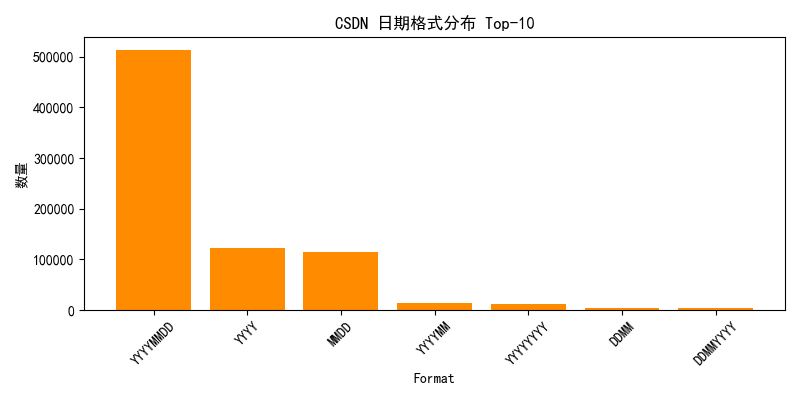
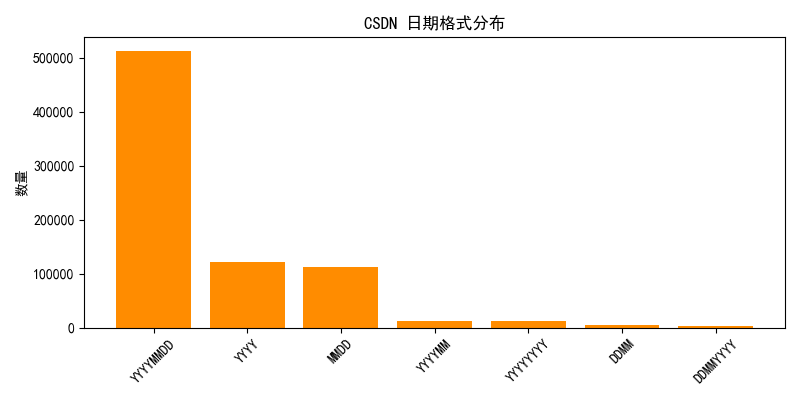
xjy work

diff --git a/ex1_wsy/pw_analy3_wsy.py b/ex1_wsy/pw_analy3_wsy.py
@@ -12,10 +12,10 @@ OUTPUT_DIR = "3_date_analysis_results"
 os.makedirs(OUTPUT_DIR, exist_ok=True)
 REPORT_PATH = os.path.join(OUTPUT_DIR, "日期密码分析报告.txt")
 
-FILE1 = "plaintxt_yahoo.txt"
-FILE2 = "www.csdn.net.sql"
+FILE1 = "../plaintxt_yahoo.txt"
+FILE2 = "../www.csdn.net.sql"
 
-NOISE_NUMBERS = ['123456', '654321', '123123', '1234', '4321', '1314', '123321']
+NOISE_NUMBERS = ['123456', '654321', '123123', '1234', '4321', '1314', '123321','1212','1221','2112','1122']
 
 
 # ========== 提取可能的日期片段 ==========
@@ -71,6 +71,7 @@ def classify_date_format(date_str):
         return "MMDD"
     if re.fullmatch(r'(0[1-9]|[12]\d|3[01])(0[1-9]|1[0-2])', date_str):
         return "DDMM"
+
     return "Other"
 
 
@@ -228,7 +229,7 @@ def analyze_date_patterns(passwords, label, report_file):
         values = [v for _, v in items]
         plt.figure(figsize=(8, 4))
         plt.bar(labels, values, color=color)
-        plt.title(title)
+        plt.title(title)                  
         plt.xlabel(xlabel)
         plt.ylabel("数量")
         plt.xticks(rotation=45)
@@ -236,10 +237,10 @@ def analyze_date_patterns(passwords, label, report_file):
         plt.savefig(os.path.join(OUTPUT_DIR, filename))
         plt.close()
 
-    plot_topk(format_counter, f"{label} 日期格式分布 Top-{TOPK}", "Format", f"{label}_date_formats.png")
+    plot_topk(format_counter, f"{label} 日期格式分布", None, f"{label}_date_formats.png")
     plot_topk(year_counter, f"{label} 年份出现频次 Top-{TOPK}", "Year", f"{label}_top_years.png")
-    plot_topk(monthday_counter, f"{label} 月日(MMDD)出现频次 Top-{TOPK}", "MMDD", f"{label}_top_monthdays.png")
-    plot_topk(structure_counter, f"{label} 密码结构 Top-{TOPK}", "Structure", f"{label}_top_structures.png")
+    plot_topk(monthday_counter, f"{label} 月日组合出现频次 Top-{TOPK}", "MMDD", f"{label}_top_monthdays.png")
+    plot_topk(structure_counter, f"{label} 密码结构 Top-{TOPK}", None, f"{label}_top_structures.png")
 
 
 # ========== 主函数 ==========

diff --git a/ex1_xjy/pw_analy1_xjy.py b/ex1_xjy/pw_analy1_xjy.py
@@ -1,8 +1,5 @@
-<<<<<<< HEAD
-=======
 #本代码完成分析1：① 密码构成元素分析（数字、字符、字母等）和结构分析，得到密码中这些基本元素常用的组合方法；
 # 分析结果保存在1_analysis_results目录下
->>>>>>> 2d04e20c1cab4b6e9ec378c88e267a1e6b4b10fa
 import re
 import matplotlib.pyplot as plt
 from collections import Counter
@@ -188,11 +185,7 @@ def analyze_cross(file1_pwds, file2_pwds, report_file):
 # ========== 主程序入口 ==========
 def main():
     print("=" * 60)
-<<<<<<< HEAD
-    print("🔍 密码特征分析实验 (图表英文版)")
-=======
     print("密码特征分析实验 (图表英文版)")
->>>>>>> 2d04e20c1cab4b6e9ec378c88e267a1e6b4b10fa
     print("=" * 60)
     print(f"文件1: {FILE1}")
     print(f"文件2: {FILE2}")
@@ -213,13 +206,8 @@ def main():
 
         analyze_cross(pwds1, pwds2, report_file)
 
-<<<<<<< HEAD
-    print(f"✅ 分析完成！报告已保存至: {REPORT_PATH}")
-    print(f"📊 图表已保存至: {OUTPUT_DIR}")
-=======
     print(f"分析完成！报告已保存至: {REPORT_PATH}")
     print(f"图表已保存至: {OUTPUT_DIR}")
->>>>>>> 2d04e20c1cab4b6e9ec378c88e267a1e6b4b10fa
 
 
 if __name__ == "__main__":

diff --git a/ex1_xjy/pw_analy_7_xjy.py b/ex1_xjy/pw_analy_7_xjy.py
@@ -1,8 +1,6 @@
-#!/usr/bin/env python3
-# pw_user_email_relation.py
-# 检测密码与用户名/邮箱之间的关联（包含/相等/反向/邮箱 local-part 等）
-# 使用方式：python pw_user_email_relation.py
-# 输出：analysis_relation/relation_report.txt, analysis_relation/matches.csv, analysis_relation/relation_pie.png
+#本代码检测密码与用户名/邮箱之间的关联（包含/相等/反向/邮箱 local-part 等）
+# 分析结果保存在7_analysis_results目录下
+# 输出：7_analysis_results/relation_report.txt, 7_analysis_results/matches.csv, 7_analysis_results/relation_pie.png
 
 import re
 import os

diff --git a/report/wsy_report/ex1_wsy.md b/report/wsy_report/ex1_wsy.md
@@ -1,0 +1,189 @@
+### analy3
+> ③ 日期密码及其格式分析，识别日期密码，区分不同的日期格式，日期与其他字符混排的组合方式统计。
+
+#### 代码内容总结
+
+1. 从指定的两个文件（plaintxt_yahoo.txt、www.csdn.net.sql）读取并提取密码，支持Yahoo 和 CSDN 两种行格式。
+2. 使用正则表达式识别潜在日期片段，并结合日期验证过滤无效匹配。
+3. 将识别出的日期按格式分类，如 YYYYMMDD、MMDD、YYYY、YYYYYYYY 等。
+4. 进行密码结构模式建模（N 表示日期，L/S/D 表示其他字符），并生成相应柱状图。
+5. 统计各类日期格式频率，并绘制日期格式分布图与高频日期图。
+6. 分析高频年份、月日组合，输出完整的文本报告与可视化图表。结果保存到3_date_analysis_result。
+
+---
+
+#### 运行结果
+
+#### Yahoo：
+- 密码总数：445,574  
+- 含日期密码：22,698（5.09%）
+
+日期格式使用情况以**年份 YYYY** 为主，其次是 **MMDD** 与 **DDMM**。
+
+主要日期格式分布如下：
+
+- YYYY：12,986  
+- MMDD：6,423  
+- DDMM：1,611  
+- DDMMYYYY：1,051  
+
+![alt text](../../ex1_wsy/3_date_analysis_results/Yahoo_date_formats.png)
+
+年份统计显示多数集中于 2000 年代，如 2008、2009、2007 等，说明用户偏向使用近期年份。
+
+高频月日组合包含：
+
+- 1224
+- 1225  
+- 0117
+- 1231
+
+主要体现在节日或特殊日期（0117难以对应为某个特殊日期，但如果出现频次却较高，如果是随机数字串也不符合常理，不妨将其看作特殊日期处理）
+
+
+
+![alt text](../../ex1_wsy/3_date_analysis_results/Yahoo_top_structures.png)
+
+在日期与其他字符混排统计中，以结构“字母 + 日期”最突出，如：
+
+- LLLLNNNN（3,970）
+- LLLLLLNNNN（3,626）
+
+说明用户偏好短词/单词+日期作为密码主体
+
+也存在部分纯日期类结构，如：
+
+- NNNNNNNN（1,215）
+
+---
+
+
+#### CSDN 数据集
+- 密码总数：6,427,743  
+- 含日期密码：777,063（12.09%）
+
+最显著特征是大量完全日期型密码（YYYYMMDD），数量高达：
+
+- YYYYMMDD：512,319  
+- YYYY：121,544  
+- MMDD：114,674  
+
+![alt text](../../ex1_wsy/3_date_analysis_results/CSDN_date_formats.png)
+
+年份分布集中在 1980 年代：1987、1988、1989 等，与大部分CSDN用户的出生年代重合，明显反映出生年份依赖。
+
+高频月日组合包含：
+
+- 1001（主要出现在19490808，中华人民共和国正式成立）
+- 1225  
+- 0808（主要出现在20080808，北京奥运会）  
+- 1010
+
+仍然体现为特殊日期的喜好，如节假日或是极具纪念意义的日期
+
+
+![alt text](../../ex1_wsy/3_date_analysis_results/CSDN_top_structures.png)
+
+在日期与其他字符混排统计中，以纯日期类结构为主：
+- NNNNNNNN（408,961）
+
+---
+
+#### 对比分析
+
+1. **使用率差异**：  
+   CSDN的日期使用率（12.09%）明显高于 Yahoo（5.09%）。
+
+2. **年份偏好差异**：  
+   Yahoo 的年份偏好偏向近期（2000+），而 CSDN 偏向 1980s（用户出生年代）。
+
+3. **格式结构差异**：  
+   CSDN 以完整日期（YYYYMMDD）为主，这种格式通常体现为具体的纪念日期或是出生日期；Yahoo 多为简化年份或非完整日期段并搭配单词。
+
+4. **特殊日期现象**：  
+   两数据集均偏好节日或特殊日期，但具体日期与不同的用户群体使用习惯有关。
+
+---
+
+### analy5
+> ⑤ 英文单词的使用统计，Top10，大小写等，难点是如何识别。
+
+#### 代码内容总结
+
+1. 从密码中提取全部字母序列，作为潜在的单词候选。
+2. 基于 wordfreq 库进行英文单词判断（含频率阈值）。
+3. 使用噪声过滤机制排除拼音、键盘序列、重复字符等非英文单词。
+4. 统计英文单词使用率、最常见英文词以及大小写模式。
+5. 输出图表与完整报告，结果保存到5_english_word_analysis_result。
+
+---
+
+#### 运行结果
+
+#### Yahoo：
+- 密码总数：445,574  
+- 含英文单词密码：335,726（75.35%）
+
+高频英文单词包括：
+
+- love（2,232）
+- man（2,216）
+- dog（1,377）
+- baby（1,335）
+- the（1,291）
+
+![alt text](../../ex1_wsy/5_english_word_analysis_results/Yahoo_top_words.png)
+
+大小写模式中：
+
+- 全小写占绝大多数：409,942  
+- 首字母大写：18,421  
+- 全大写：6,272  
+- 混合大小写：2,757  
+
+![alt text](../../ex1_wsy/5_english_word_analysis_results/Yahoo_case_patterns.png)
+
+
+![alt text](../../ex1_wsy/5_english_word_analysis_results/Yahoo_case_patterns_pie.png)
+
+---
+
+#### CSDN 数据集
+- 密码总数：6,427,743  
+- 含英文单词密码：1,371,753（21.34%）
+
+高频单词：
+
+- book（57,414）
+- love（26,108）
+- you（18,968）
+- king（6,840）
+
+![alt text](../../ex1_wsy/5_english_word_analysis_results/CSDN_case_patterns.png)
+
+大小写结构：
+
+- 全小写：1,670,547  
+- 全大写：79,542  
+- 首字母大写：25,942  
+- 混合大小写：6,722  
+
+![alt text](https://5_english_word_analysis_results/CSDN_case_patterns.png)
+
+![alt text](../../ex1_wsy/5_english_word_analysis_results/CSDN_case_patterns_pie.png)
+
+---
+
+#### 对比分析
+
+1. 英文单词使用率差异显著：Yahoo（75%）远高于 CSDN（21%），反映用户语言结构差异。    
+2. 两数据集中全小写占主导，但 CSDN 中全大写比例更高。  
+3. 大量使用常见英文单词会降低密码熵，使其更易受字典攻击。
+
+---
+
+### 安全建议
+- 避免使用出生年份、节假日日期等高频日期结构。  
+- 避免大量使用高频英文单词，必要时加入符号或不可预测字符。  
+- 日期、单词、数字类结构应混合使用，提高熵值与抗猜测能力。  
+- 避免与个人信息强相关的日期和词汇。
